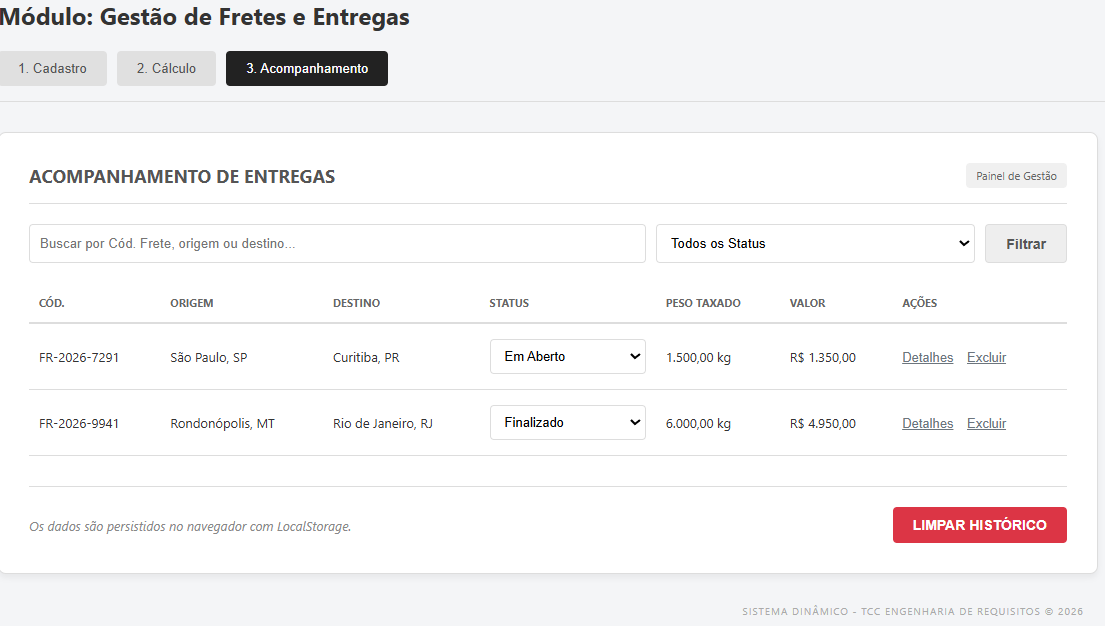
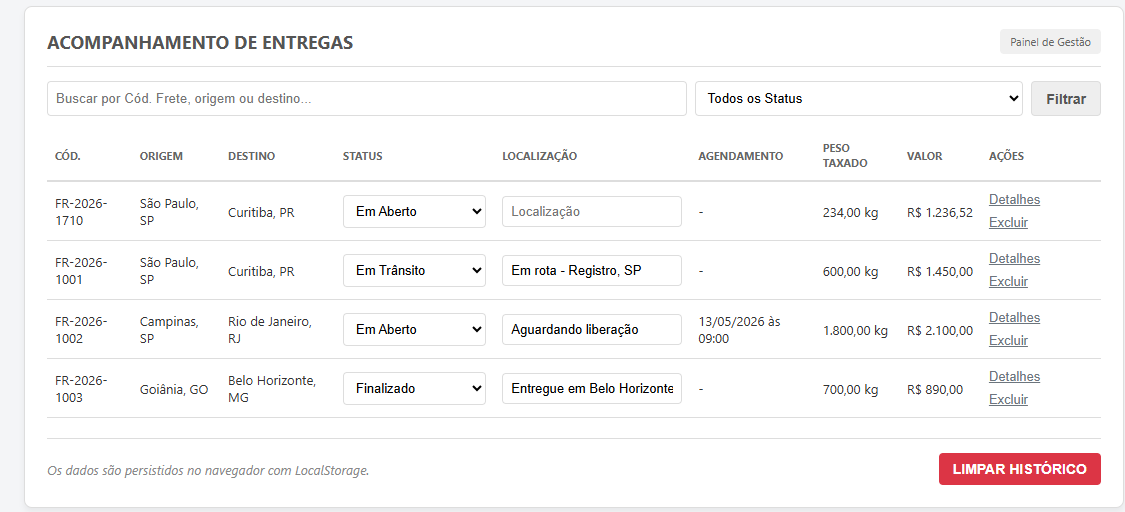
Prints

diff --git a/js/app.js b/js/app.js
@@ -106,7 +106,60 @@ function formatarCep(cep) {
 }
 
 function cidadeUf(dadosCep) {
-  return `${dadosCep.localidade}, ${dadosCep.uf}`;
+  return `${dadosCep.city}, ${dadosCep.state}`;
+}
+
+function calcularDistanciaCoords(lat1, lon1, lat2, lon2) {
+  const R = 6371; // Raio da Terra em km
+  const dLat = (lat2 - lat1) * Math.PI / 180;
+  const dLon = (lon2 - lon1) * Math.PI / 180;
+  const a = 
+    Math.sin(dLat/2) * Math.sin(dLat/2) +
+    Math.cos(lat1 * Math.PI / 180) * Math.cos(lat2 * Math.PI / 180) * 
+    Math.sin(dLon/2) * Math.sin(dLon/2);
+  const c = 2 * Math.atan2(Math.sqrt(a), Math.sqrt(1-a)); 
+  return R * c;
+}
+
+function verificarECalcularDistancia() {
+  const cepOrigem = el('cepOrigem');
+  const cepDestino = el('cepDestino');
+  
+  if (cepOrigem.dataset.lat && cepOrigem.dataset.lon && cepDestino.dataset.lat && cepDestino.dataset.lon) {
+    const lat1 = parseFloat(cepOrigem.dataset.lat);
+    const lon1 = parseFloat(cepOrigem.dataset.lon);
+    const lat2 = parseFloat(cepDestino.dataset.lat);
+    const lon2 = parseFloat(cepDestino.dataset.lon);
+    
+    if (!isNaN(lat1) && !isNaN(lon1) && !isNaN(lat2) && !isNaN(lon2)) {
+      const distanciaReta = calcularDistanciaCoords(lat1, lon1, lat2, lon2);
+      const distanciaComCorrecao = distanciaReta * 1.2; // +20% para simular rodovias
+      
+      // O campo input type="number" do HTML espera ponto como separador decimal
+      el('distancia').value = distanciaComCorrecao.toFixed(1);
+    }
+  }
+}
+
+async function buscarCoordenadas(cep, cidade, estado) {
+  try {
+    const formatCep = `${cep.slice(0, 5)}-${cep.slice(5)}`;
+    const resCep = await fetch(`https://nominatim.openstreetmap.org/search?postalcode=${formatCep}&country=Brazil&format=json`);
+    const dataCep = await resCep.json();
+    if (dataCep && dataCep.length > 0) {
+      return { lat: dataCep[0].lat, lon: dataCep[0].lon };
+    }
+  } catch(e) {}
+  
+  try {
+    const resCidade = await fetch(`https://nominatim.openstreetmap.org/search?city=${encodeURIComponent(cidade)}&state=${encodeURIComponent(estado)}&country=Brazil&format=json`);
+    const dataCidade = await resCidade.json();
+    if (dataCidade && dataCidade.length > 0) {
+      return { lat: dataCidade[0].lat, lon: dataCidade[0].lon };
+    }
+  } catch(e) {}
+
+  return null;
 }
 
 async function buscarCep(campoCep, campoResultado, rotulo) {
@@ -127,19 +180,41 @@ async function buscarCep(campoCep, campoResultado, rotulo) {
   el(campoResultado).value = 'Buscando...';
 
   try {
-    const resposta = await fetch(`https://viacep.com.br/ws/${cep}/json/`);
+    const resposta = await fetch(`https://brasilapi.com.br/api/cep/v2/${cep}`);
+    
+    if (!resposta.ok) {
+      throw new Error('CEP não encontrado');
+    }
+    
     const dadosCep = await resposta.json();
 
-    if (dadosCep.erro) {
-      el(campoResultado).value = '';
-      alert(`CEP de ${rotulo} não encontrado.`);
-      return;
-    }
-
     el(campoResultado).value = cidadeUf(dadosCep);
+    
+    // Salvar as coordenadas para o cálculo de distância
+    let lat = '';
+    let lon = '';
+
+    if (dadosCep.location && dadosCep.location.coordinates && dadosCep.location.coordinates.latitude) {
+      lat = dadosCep.location.coordinates.latitude;
+      lon = dadosCep.location.coordinates.longitude;
+    } else {
+      // Fallback caso a BrasilAPI não tenha as coordenadas do CEP
+      const coords = await buscarCoordenadas(cep, dadosCep.city, dadosCep.state);
+      if (coords) {
+        lat = coords.lat;
+        lon = coords.lon;
+      }
+    }
+    
+    el(campoCep).dataset.lat = lat || '';
+    el(campoCep).dataset.lon = lon || '';
+    
+    verificarECalcularDistancia();
   } catch (error) {
     el(campoResultado).value = '';
-    alert(`Não foi possível consultar o CEP de ${rotulo}. Verifique a conexão e tente novamente.`);
+    el(campoCep).dataset.lat = '';
+    el(campoCep).dataset.lon = '';
+    alert(`Não foi possível consultar o CEP de ${rotulo}. ${error.message}`);
   }
 }
 
@@ -256,6 +331,11 @@ function resetarFormulario() {
   el('dataAgendamento').value = '';
   el('horaAgendamento').value = '';
   el('localizacaoAtual').value = '';
+  
+  el('cepOrigem').dataset.lat = '';
+  el('cepOrigem').dataset.lon = '';
+  el('cepDestino').dataset.lat = '';
+  el('cepDestino').dataset.lon = '';
 }
 
 function preencherFormularioRegras() {
